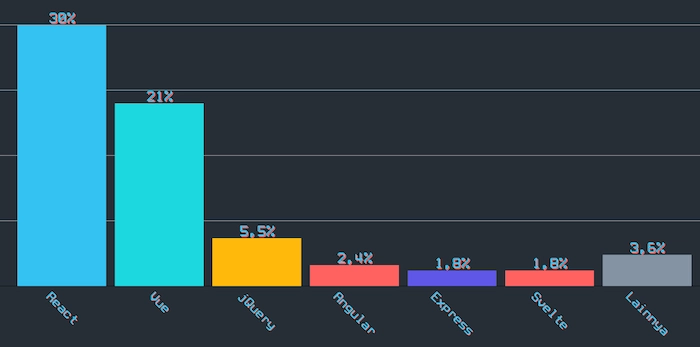
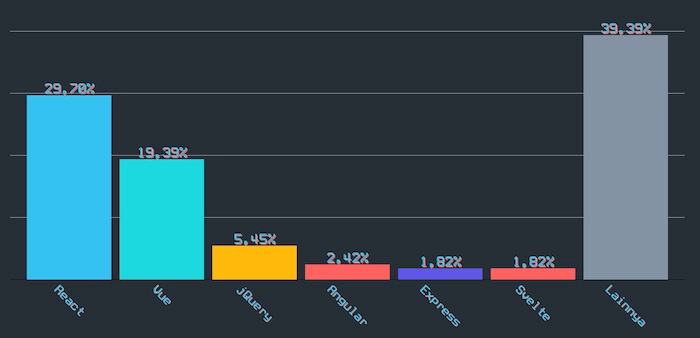
Finish writing description for each chart.

Changed region(s): [[0.0, 0.0296, 1.0, 0.9763]]

diff --git a/src/routes/belajar.svelte b/src/routes/belajar.svelte
@@ -5,12 +5,25 @@
 
 <div class="container">
   <h1>Proses Belajar</h1>
+  <p>Berikut adalah data terkait framework yang saat ini dikuasai, framework yang ingin dipelajari, dan bagaimana responden belajar framework tertentu.</p>
 
   <Image title="Framework Yang Dikuasai" name="framework-2" />
+  <p>Untuk framework yang saat ini dikuasai didominasi oleh React dan Vue. React memimpin dengan angka nyaris <strong>30%</strong>, diikuti dengan Vue yang mendapatkan angka nyaris <strong>20%</strong>. Masih banyak pula yang saat ini menggunakan jQuery sebagai alat bantu dalam pekerjaannya sehari-hari, sekitar <strong>5,5%</strong> responden mengaku sebagai pengguna jQuery. Sedangkan <strong>40%</strong> responden lainnya menggunakan framework lain seperti Stimulus, Ember, Polymer dan termasuk yang tidak mengisi. Ada pula yang menggunakan Express, yang adalah sebuah framework di sisi server atau backend.</p>
+
   <Image title="Frontend Framework yang Ingin Dipelajari" name="frontend" />
+  <p>Sedangkan untuk framework yang ingin dipelajari, di sisi frontend, React dan Vue merupakan framework yang paling diminati. Diikuti dengan jQuery, Angular dan Svelte. Sedangkan 41% responden memilih framework lain, framework backend atau memilih tidak memberikan jawaban. Adapula yang ingin belajar Next.js yang sebenarnya adalah framework diatas React.js.</p>
+
   <Image title="Backend Framework yang Ingin Dipelajari" name="backend" />
+
+  <p>Meskipun survei ini difokuskan ke sisi frontend, namun ada beberapa responden yang adalah backend developer dan turut serta menambahkan framework yang ingin dipelajari. Juga ada beberapa responden dengan latar belakang frontend yang ingin belajar backend.</p>
   <Image title="Media Belajar Favorit" name="media" />
-  <Image title="Cara Belajar Favorit" name="cara" />
+  <p>Untuk media pembelajaran, sebagian besar responden mengaku belajar dengan media video dan artikel. Sebagian kecil menjawab buku dan hanya satu orang yang menjawab belajar dari mentor. Selebihnya sekitar 63% tidak menjawab pertanyaan terkait media pembelajaran.</p>
+
+  <Image title="Sumber Belajar Favorit" name="cara" />
+
+  <p>Sedangkan untuk sumber belajar hasilnya cukup bervariasi. Nyaris 20% belajar dari dokumentasi resmi. 15% lainnya belajar dari tutorial ataupun artikel dan 15% berikutnya belajar dengan membangun proyek sederhana. Ada pula yang belajar dari contoh aplikasi, boilerplate yang disediakan dan sebagian yang lainnya langsung terjun dengan menggunakan di proyeknya.</p>
+
+  <p>Ada sedikit paradoks dari dua data diatas. Dari statistik sebelumnya, banyak yang tertarik belajar via video, namun di statistik ini banyak yang belajar dari dokumentasi. Padahal dokumentasi biasanya berbentuk tulisan, bukan video. Apakah artinya dokumentasi dengan format video lebih menarik?</p>
 
   <NavBottom 
     prevHref="/komunitas" 

diff --git a/src/routes/kesimpulan.svelte b/src/routes/kesimpulan.svelte
@@ -6,6 +6,20 @@
 <div class="container">
   <h1>Kesimpulan</h1>
 
+  <p>Masa-masa saat ini adalah masa yang sangat menyenangkan dan exciting terutama untuk developer JavaScript. Ekosistem pendukung semakin matang, pilihan untuk belajar sangat banyak, begitu juga media dan pilihan cara belajar. Bisa belajar dari artikel, buku hingga format video. Ada pustaka atau framework yang sangat developer friendly, dengan beberapa langkah kita sudah bisa membuat aplikasi. Ada juga yang sangat user friendly dalam artian mungkin untuk development butuh waktu yang agak panjang dan tidak semudah yang lain, namun hasil akhirnya sangat memanjakan. Aplikasinya cepat dan ringan tidak memberatkan pengguna.</p>
+
+  <p>Apapun piilihan teman-teman, yang penting semua itu bisa membantu teman-teman dalam berkarya, baik karya yang sederhana hingga karya yang luar biasa.</p>
+
+  <p>
+    Untuk sudut pandang pengambil keputusan, meskipun memilih teknologi berdasarkan hype atau tren bukanlah hal yang salah, tapi perlu dikonsiderasi juga talenta tersedia dan jika saya diperbolehkan menambahkan opini pribadi, kadang kita perlu melawan arus, melakukan apa yang tidak dilakukan orang lain, anti mainstream.</p>
+
+  <p>
+    Ada yg namanya python paradox dimana kita sengaja pilih teknologi yang jarang digunakan agar memikat talenta-talenta yang memang tertarik dengan teknologi tersebut sekaligus tidak perlu bersaing dengan para unicorn untuk merekrut developer. Ada juga yang mengambil jalur untuk memilih teknologi yang sudah matang, obvious, teknologi yang sudah membosankan, boring technology club.</p>
+
+  <p>
+    Tujuan disajikannya data ini bukan untuk melihat framework atau pustaka mana yang paling bagus, tapi lebih kepada framework atau pustaka mana yang cocok buat kita dari ketiga sudut pandang tadi.</p>
+
+  <p>Terimakasih banyak atas atensinya dan terimakasih banyak untuk para responden yang sudah berpartisipasi.</p>
 
   <NavBottom 
     prevHref="/testing" 

diff --git a/src/routes/memilih.svelte b/src/routes/memilih.svelte
@@ -8,8 +8,13 @@
 
   <Image title="Pertimbangan Memilih Teknologi" name="pertimbangan" />
 
-  <NavBottom 
-    prevHref="/belajar" 
+  <p>Dan berikut merupakan data bagaimana responden memutuskan untuk memilih teknologi, pustaka atau <em>framework</em> untuk kebutuhan masing-masing.</p>
+  <p>Developer friendly user friendly dan popularitas merupakan tiga alasan terbesar memilih sebuah teknologi. Developer friendly lebih ke bagaimana sebuah teknologi mudah digunakan oleh developer. Contohnya React sebagai alat bantu yang banyak memberikan kemudahan bagi developer untuk mengembangkan aplikasi yang kompleks sekalipun.</p>
+  <p>User friendly disini lebih dimaksudkan kepada bagaimana sebuah teknologi dapat memanjakan pengguna. Contohnya Svelte dapat menghasilkan ukuran JavaScript yang sangat kecil sehingga aplikasi web yang diakses pengguna menjadi lebih cepat. Meskipun terkadang harus mengorbankan developer karena proses pengembangan mungkin tidak semudah menggunakan alat bantu yang lebih fokus kepada developer experience atau DX yang sudah kita bahas diatas.</p>
+  <p>Ada pula yang memilih karena sebuah teknologi sudah matang atau <em>mature</em>, yang terkadang merupakan cara yang tepat dan bukanlah hal yang salah. Dan 3% dari responden juga mengaku memilih teknologi berdasarkan talenta yang ada. Ada juga yang memilih sebuah teknologi karena jarang digunakan. Ini juga pendekatan yang menarik.</p>
+  
+  <NavBottom
+    prevHref="/belajar"
     prevLabel="Belajar" 
     nextHref="/testing"
     nextLabel="Testing"

diff --git a/src/routes/komunitas.svelte b/src/routes/komunitas.svelte
@@ -2,8 +2,15 @@
   import Image from '../components/Image.svelte';
   import NavBottom from '../components/NavBottom.svelte';
 </script>
+
 <div class="container">
   <h1>Komunitas Sekitar</h1>
+
+  <p>Berikut adalah data komunitas di daerah masing-masing yang disebutkan oleh para responden. Komunitas yang paling banyak disebutkan adalah <a href="https://jakartajs.org" target="_blank">JakartaJS</a>. Sedangkan kota dengan jumlah komunitas yang paling banyak adalah Malang.</p>
+
+  <p>Sedangkan untuk komunitas berdasarkan framework, yang paling banyak disebut oleh responden ternyata adalah komunitas JavaScript secara umum baik itu komunitas seperti JakartaJS, BandungJS, SurabayaJS hingga NodeJS dan masih banyak yang lainnya. Diluar komunitas JavaScript, komunitas React merupakan komunitas yang paling banyak dikenal dengan 7,88%.</p>
+
+  <p>Satu hal yang menarik, ternyata ada lebih dari <strong>28%</strong> para responden yang tidak mengetahui komunitas di daerahnya. Ini menjadi peluang dan pekerjaan rumah untuk kita semua para penggerak komunitas untuk lebih menyebarluaskan informasi terkait komunitas masing-masing.</p>
 
   <Image title="Komunitas per Daerah" name="daerah" />
   <Image title="Komunitas per Framework" name="framework" />

diff --git a/src/routes/testing.svelte b/src/routes/testing.svelte
@@ -6,8 +6,12 @@
 <div class="container">
   <h1>Testing</h1>
 
+  <p>Dari data yang didapat, ternyata banyak juga yang belum menerapkan testing untuk pengembangan aplikasi. Dari keseluruhan responden ada 21% yang menyatakan bahwa aplikasi yang dikembangkan belum menggunakan testing sama sekali. Sedangkan 19% lainnya sudah menerapkan testing meski belum seluruhnya. Hanya sekitar 13% yang mengharuskan testing untuk aplikasi yang dikembangkan.</p>
+
   <Image title="Penerapan Testing" name="testing" />
   <Image title="Alat Bantu Testing" name="alat" />
+
+  <p>Dan untuk alat bantu testing sendiri, ternyata Jest memimpin cukup jauh dengan pencapaian hampir 30%. Hal ini mungkin dikarenakan Jest cukup populer digunakan di sisi frontend, meski tidak jarang Jest juga digunakan di sisi backend. Kemudian disusul dengan Mocha yang mencapai 9%, lalu karma dengan 2%. Ada pula dua responden yang menggunakan testing library dan satu orang menggunakan ava.</p>
 
   <NavBottom 
     prevHref="/memilih" 

diff --git a/static/global.css b/static/global.css
@@ -12,7 +12,7 @@ body {
   margin: 0;
   font-family: New, Roboto, -apple-system, BlinkMacSystemFont, Segoe UI, Oxygen,
     Ubuntu, Cantarell, Fira Sans, Droid Sans, Helvetica Neue, sans-serif;
-  font-size: 14px;
+  font-size: 16px;
   line-height: 1.5;
   color: #34c2f2;
 }
@@ -33,9 +33,10 @@ h1 {
 }
 
 h3 {
-  font-size: 1.25em;
+  font-size: 1.75em;
   margin-top: 1em;
   margin-bottom: 1em;
+  text-align: center;
 }
 
 img {
@@ -126,6 +127,11 @@ a.button {
   margin: 1em;
   display: flex;
   justify-content: center;
+}
+p {
+  font-size: 20px;
+  padding-left: 5em;
+  padding-right: 5em;
 }
 @media (min-width: 480px) {
   h1 {

diff --git a/src/routes/demografi.svelte b/src/routes/demografi.svelte
@@ -2,6 +2,7 @@
   import Image from '../components/Image.svelte';
   import NavBottom from '../components/NavBottom.svelte';
 </script>
+
 <div class="container">
   <h1>Demografi</h1>
   <p>Total responden adalah 165 orang dari berbagai latar belakang dan tersebar di berbagai lokasi. Meskipun awalnya survei ini ditujukan untuk developer frontend, namun tidak sedikit pula yang bekerja sebagai developer backend hingga para pengambil keputusan seperti team lead, Vice President of Engineering hingga C-level seperti CTO juga turut serta sebagai responden.</p>
